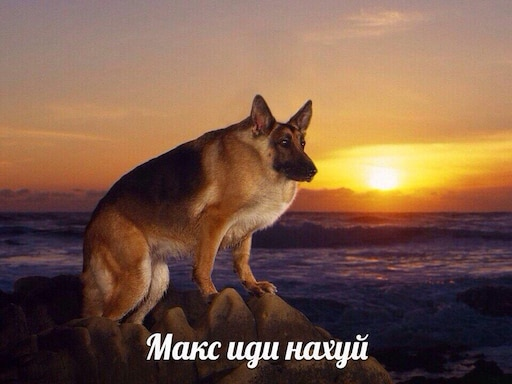
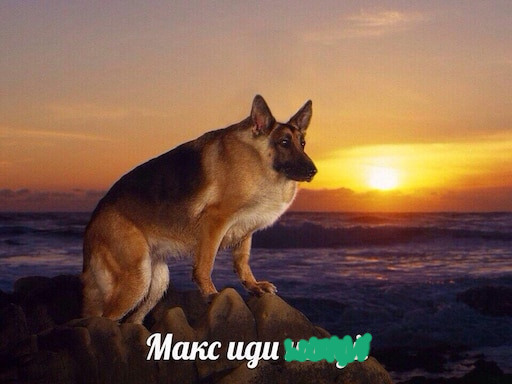
добавил меме

Changed region(s): [[0.5312, 0.875, 0.75, 0.9688]]

diff --git a/src/home.css b/src/home.css
@@ -126,12 +126,14 @@ p {
     flex-direction: column;
     gap: 20px;
     position: relative;
+    align-items: center;
 }
 .contentHorizontal {
     display: flex;
     flex-direction: row;
     gap: 20px;
     position: relative;    
+    align-items: center;
 }
 .decorated-text-container {
     display: flex;
@@ -146,9 +148,9 @@ p {
     gap: 50px;
 }
 
-.roomImage {
-    width: 642px;
-    height: 100vh;
+.sizedImage {
+    width: var(--width,100%);
+    height: var(--height,100%);
 }
 .greenButton {
     display: inline-flex;
@@ -158,16 +160,10 @@ p {
     width: max-content;
     box-sizing: border-box; 
     padding: 0 32px;
-    
     background-image: url('assets/home/Buttom.svg'); 
     background-repeat: no-repeat;
     background-position: center;
     background-size: 100% 100%;
-    
-    /* ХАК ДЛЯ SVG: Сбрасываем пропорции, чтобы картинка тянулась по X как обычный JPG/PNG */
-    /* (Работает в современных браузерах для фоновых SVG) */
-
-
     background-color: transparent;
     color: #F4F7FB;
     border: none; 

diff --git a/src/pages/styles.css b/src/pages/styles.css
@@ -9,11 +9,9 @@
   grid-template-rows: max-content max-content;
 }
 
-.line {
-  padding-top: 20px;
-  grid-area: line;
-  width: 400px;
-  margin: auto;
+.roomsImage {
+    height: 536px;
+    width: 721px;
 }
 
 .bottomImage {
@@ -68,7 +66,6 @@ body {
   align-items: center;
   gap: 16px;
 }
-
 .registationBlock > input {
   width: 250px;
   height: 40px;
@@ -90,30 +87,10 @@ body {
   color: #A4A9A5;
   opacity: 1;
 }
-
 .registrationBottom {
   display: flex;
   flex-direction: column;
   justify-content: space-between;
   align-items: center;
   color: #f4f7fb;
-}
-
-/*.registrationBottom > button {
-  cursor: pointer;
-  height: 40px;
-  font-size: 18px;
-  border: 1px solid #19a976;
-  border-radius: 8px;
-  background: #1f2326;
-  color: #ffffff;
-  outline: none;
-  padding: 0 10px;
-}
-
-.registrationBottom > p {
-  cursor: pointer;
-  height: 40px;
-  font-size: 18px;
-  color: #ffffff;*/
 }

diff --git a/src/App.tsx b/src/App.tsx
@@ -4,6 +4,7 @@ import { Game } from "./pages/Game";
 import { Registration } from "./pages/Registration";
 import { Login } from "./pages/Login";
 import { Home } from "./pages/Home";
+import { Meme } from "./pages/Meme";
 import { Header } from "./shared/header/Header";
 import { Footer } from "./shared/footer/Footer"
 import { useUserStore } from "./entities/User/model/useUserStore";
@@ -26,6 +27,7 @@ export function App() {
           <Route path="/rooms" element={<Rooms />} />
           <Route path="/registration" element={<Registration />} />
           <Route path="/login" element={<Login />} />
+          <Route path="/meme" element={<Meme />} />
           <Route path="/" element={<Navigate to="/home" replace />} />
         </Routes>
         <Footer />

diff --git a/src/shared/footer/Footer.tsx b/src/shared/footer/Footer.tsx
@@ -23,7 +23,7 @@ function FooterComponent() {
                 <a href="" className={styles.iconImg}><img src={telegramIcon} /></a>
                 <a href="" className={styles.iconImg}><img src={youtubeIcon} /></a>
                 <a href="" className={styles.iconImg}><img src={vkIcon} /></a>
-                <Link to="/not-ready" className={styles.iconImg}><img src={maxIcon} /></Link>
+                <Link to="/meme" className={styles.iconImg}><img src={maxIcon} /></Link>
             </div>
             <div className={styles.footerLinks}> 
                 <div className={styles.footerColumn}>

diff --git a/src/entities/User/UI/RegistrationForm/RegistrationForm.tsx b/src/entities/User/UI/RegistrationForm/RegistrationForm.tsx
@@ -43,7 +43,7 @@ export const RegistrationForm = () => {
       <div className="contentVertical">
         <img src={pattern4}/>
         <div className="contentHorizontal">
-          <img className="roomsImage" src={roomsImage} alt="rooms"/>
+         <img className="sizedImage" style={{'--width':'721px','--height':'536px'} as React.CSSProperties} src={roomsImage} alt="rooms" />
           <form className="registationBlock" onSubmit={handleSubmit}>
             <div className="decorated-text-container">
               <img src={pattern3}/>

diff --git a/src/entities/User/UI/LoginForm/LoginForm.tsx b/src/entities/User/UI/LoginForm/LoginForm.tsx
@@ -42,7 +42,7 @@ export const LoginForm = () => {
       <div className="contentVertical">
         <img src={pattern4}/>
         <div className="contentHorizontal">
-          <img className="roomsImage" src={roomsImage} alt="rooms" />
+          <img className="sizedImage" style={{'--width':'721px','--height':'536px'} as React.CSSProperties} src={roomsImage} alt="rooms" />
           <form className="registationBlock" onSubmit={handleSubmit}>
             <div className="decorated-text-container">
               <img src={pattern3}/>

diff --git a/src/pages/Meme.tsx b/src/pages/Meme.tsx
@@ -1,0 +1,16 @@
+import "./styles.css";
+import meme from "../assets/content/mah.jpeg"
+import pattern4 from "../assets/home/Pattern4.svg";
+import pattern5 from "../assets/home/Pattern5.svg";
+
+export const Meme = () => {
+  return (
+    <div className="main">
+        <div className="contentVertical">
+            <img src={pattern4}/>
+            <img className="sizedImage" style={{'--width':'1000px'} as React.CSSProperties} src={meme} />
+            <img src={pattern5}/>
+        </div>
+    </div>
+  );
+};

diff --git a/src/pages/Rooms.tsx b/src/pages/Rooms.tsx
@@ -1,7 +1,7 @@
 import "./styles.css";
 import { useEffect, useState } from "react";
 import bottom from "../assets/bottom.png";
-import line from "../assets/line.png";
+import line from "../assets/home/Pattern1.svg";
 import roomsImage from "../assets/rooms.png";
 import { useNavigate } from "react-router-dom";
 import { getAllRooms, type Room } from "../api/roomApi";

diff --git a/src/pages/Home.tsx b/src/pages/Home.tsx
@@ -11,7 +11,6 @@ import logo3 from "../assets/home/partners_logo3.svg"
 import discordLogo from "../assets/home/DiscordIconSquared.svg"
 import telegramLogo from "../assets/home/TelegramIconSquared.svg"
 import vkLogo from "../assets/home/VKIconSquared.svg"
-import { Link } from 'react-router-dom';
 
 export const Home = () => {
   return (
